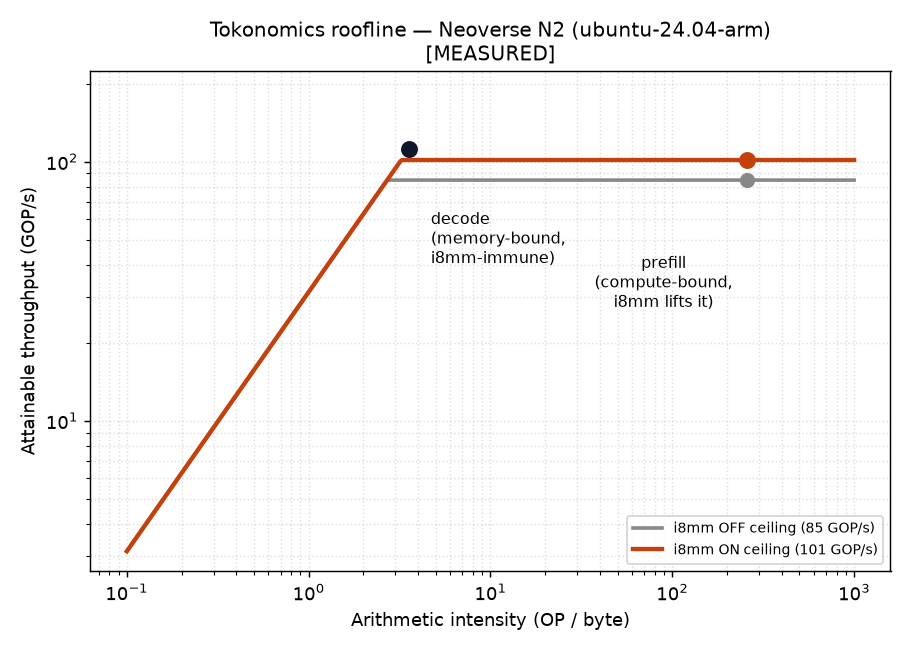
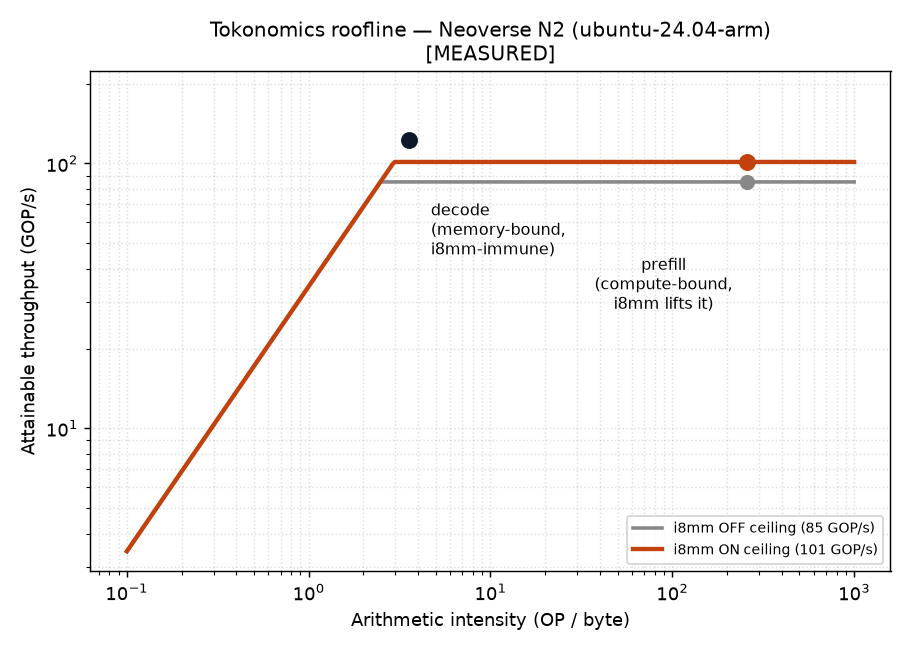
ci: measured Arm N2 economics + figures [skip ci]

diff --git a/REPORT.md b/REPORT.md
@@ -9,10 +9,10 @@ Model: **Llama-3.2-1B Q4_0**
 
 | instance | phase | i8mm | tok/s | tokens/$ | tokens/J* |
 |---|---|---|--:|--:|--:|
-| cobalt100-n2 | prefill | off | 34.2 | 879,470 | 0.76 |
-| cobalt100-n2 | prefill | on | 40.9 | 1,051,175 | 0.91 |
-| cobalt100-n2 | decode | off | 34.2 | 879,470 | 0.76 |
-| cobalt100-n2 | decode | on | 40.9 | 1,051,175 | 0.91 |
+| cobalt100-n2 | prefill | off | 34.3 | 882,892 | 0.76 |
+| cobalt100-n2 | prefill | on | 40.8 | 1,050,346 | 0.91 |
+| cobalt100-n2 | decode | off | 34.3 | 882,892 | 0.76 |
+| cobalt100-n2 | decode | on | 40.8 | 1,050,346 | 0.91 |
 
 
 ## 🧪 x86 DEV PROXY (float, pipeline check — not Arm int8)